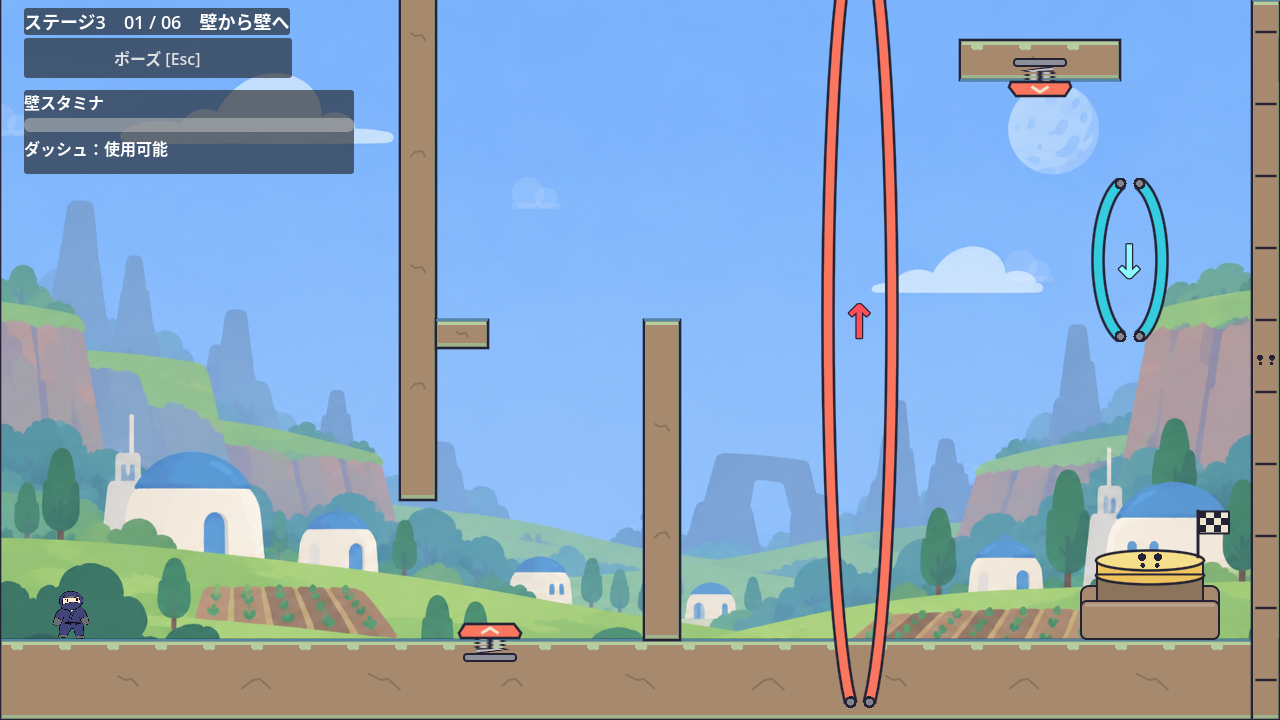
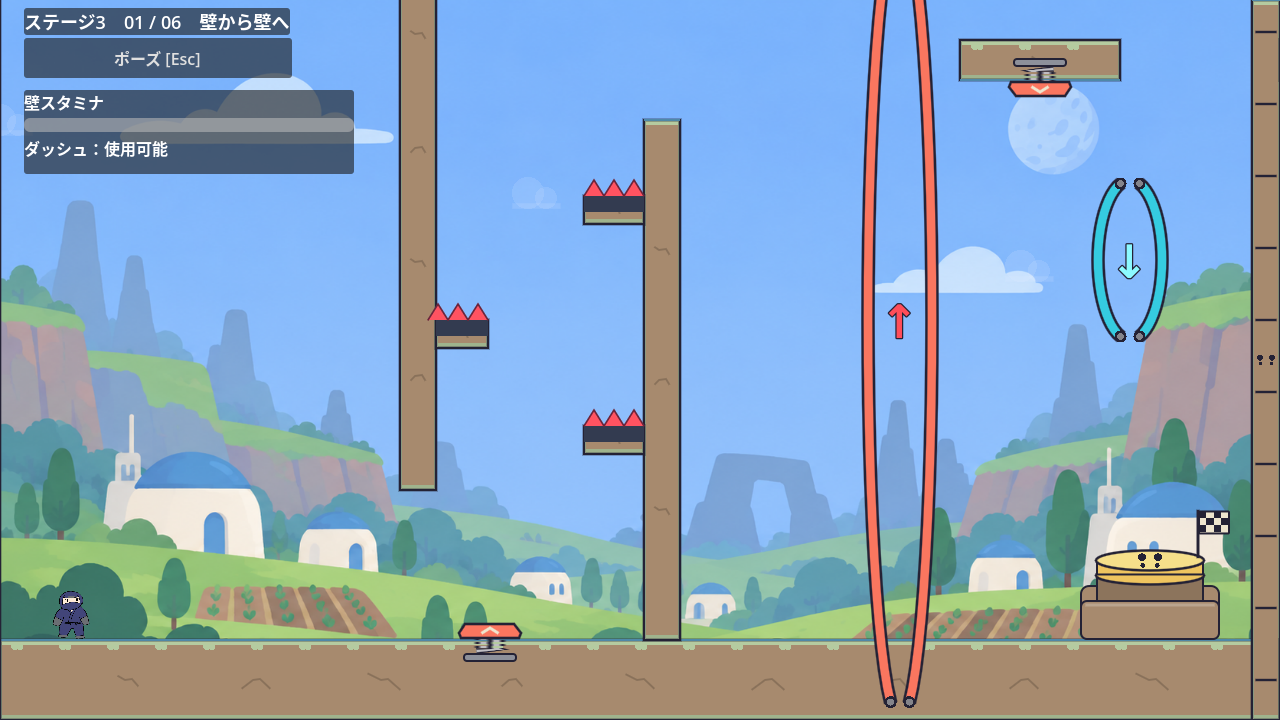
✨ 重力ステージの壁キック迂回を地形で防ぐ

diff --git a/README.md b/README.md
@@ -45,7 +45,7 @@ F5で起動すると、宇宙背景の中央に「忍者ぶっとびくん Galax
 
 ## ステージ3：壁キックと重力
 
-壁キックと重力反転を使う6部屋の本編ステージです。1部屋目はSpringから壁キック・重力反転・天井のSpringへ、2部屋目は天井側の反発板から壁への掴み替えへつなぎます。3〜6部屋目は後半にも天井の穴があり、空中ジャンプのクリスタル、縦風と移動ゲート、短い足場のSpring、向かい風と横移動ゲートを、それぞれ違う経路で使います。ダッシュと壁登りは最初から使え、全6部屋をダッシュなしでも攻略できます。
+壁キックと重力反転を使う6部屋の本編ステージです。1部屋目はSpringから張り出しを交互の壁キックで越え、重力反転・天井のSpringへ、2部屋目は天井側の反発板から壁への掴み替えへつなぎます。3〜6部屋目は後半にも天井の穴があり、空中ジャンプのクリスタル、縦風と移動ゲート、短い足場のSpring、向かい風と横移動ゲートを、それぞれ違う経路で使います。ダッシュと壁登りは最初から使え、全6部屋をダッシュなしでも攻略できます。
 
 各部屋は1280×720の固定カメラで、到着台を押すと出口が開きます。3〜6部屋目には床の落とし穴もあり、クリア後は床の穴を埋める足場が現れます。穴の縁はオレンジ色で示します。落下やR / Startでその部屋の入口へ戻り、重力・ダッシュ・スタミナと移動ゲートをリセットします。開いた出口は、そのプレイ中は開いたままです。6部屋目のクリア後も前の部屋へ戻って練習できます。
 
@@ -258,6 +258,7 @@ F6で実行する `main.tscn` のPhase 2配置：
 Godot_v4.7.2-stable_win64_console.exe --headless --fixed-fps 60 --path . --script res://tests/stage_select_test.gd
 Godot_v4.7.2-stable_win64_console.exe --headless --fixed-fps 60 --path . --script res://tests/stage_2_test.gd
 Godot_v4.7.2-stable_win64_console.exe --headless --fixed-fps 60 --path . --script res://tests/stage_3_test.gd
+Godot_v4.7.2-stable_win64_console.exe --headless --fixed-fps 60 --path . --script res://tests/gravity_wall_jump_route_test.gd
 Godot_v4.7.2-stable_win64_console.exe --headless --fixed-fps 60 --path . --script res://tests/stage_4_test.gd
 Godot_v4.7.2-stable_win64_console.exe --headless --fixed-fps 60 --path . --script res://tests/corridor_companion_route_test.gd
 Godot_v4.7.2-stable_win64_console.exe --headless --fixed-fps 60 --path . --script res://tests/stage_5_test.gd
